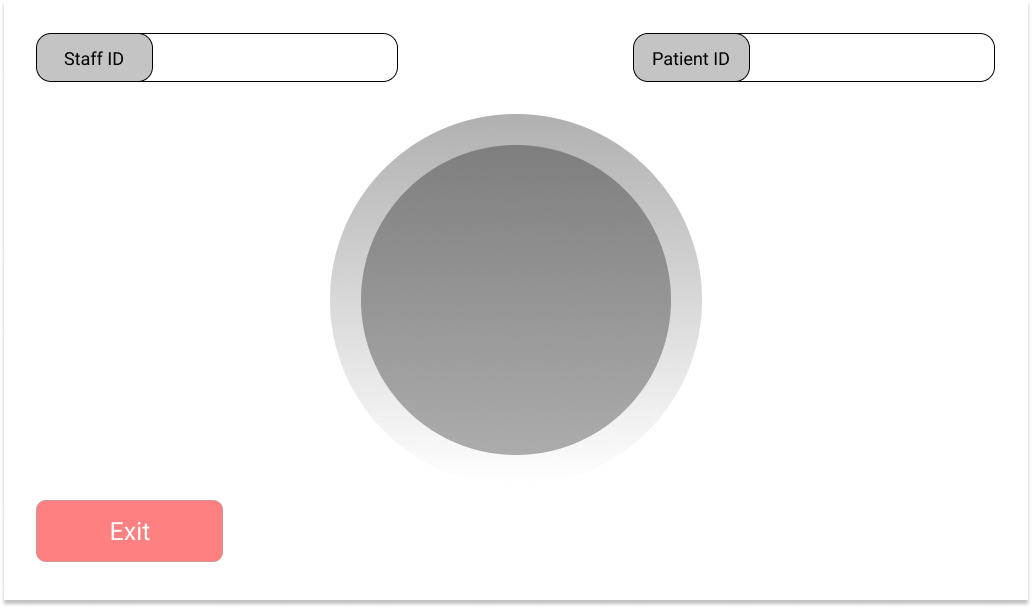
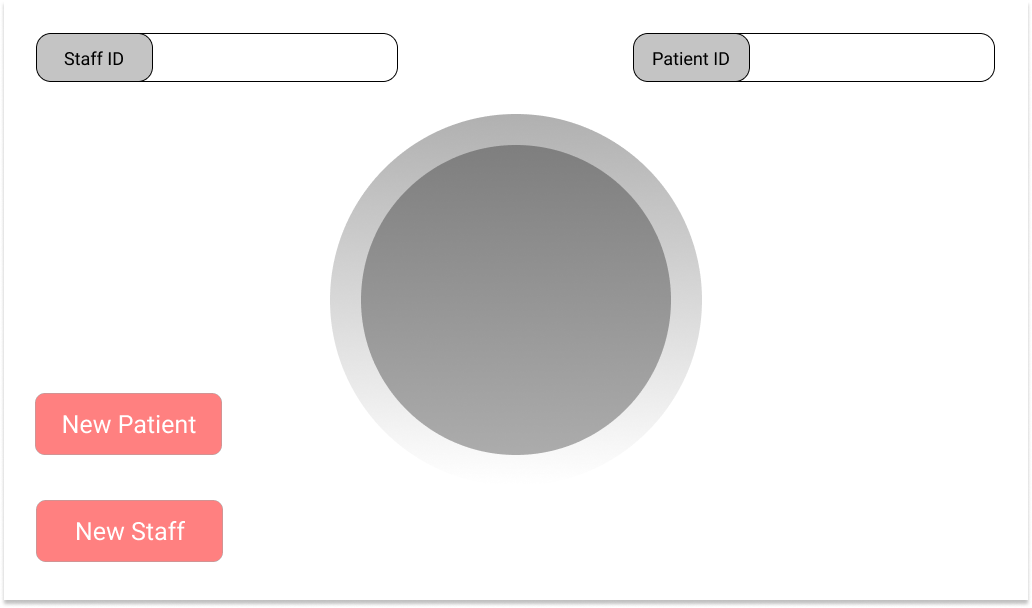
individual login window update

Changed region(s): [[0.031, 0.625, 0.2171, 0.75], [0.062, 0.8438, 0.186, 0.9062]]

diff --git a/demo ui/demo_gui_only.py b/demo ui/demo_gui_only.py
@@ -5,24 +5,31 @@ from autofocus import autofocus
 from login import *
 
 
-class MainWindow(QMainWindow):
-    
-    def openwindow(self):
-        self.window = QtWidgets.QMainWindow()
+class MainWindow(QMainWindow):    
+    def login_page(self):
         self.ui = Ui_Form()
-        self.ui.setupUi(self.window)
-        self.window.show()
+        self.ui.resize(1024, 600)        
+        self.ui.show()
         
-    def btn_exit_handler(self):                
+    def new_main_page(self):
+        self.ui = MainWindow(self.staff_id_value)
+        self.ui.resize(1024, 600)        
+        self.ui.show()
         
-        self.close()
-        self.openwindow()
+    def btn_exit_handler(self):                        
+        self.close()       
+        self.login_page()
+        
+    def new_patient_instance(self):
+        self.close() 
+        self.new_main_page()
         
         
         
-    def __init__(self):
+    def __init__(self, staff_id_value):
         super().__init__()
-        self.count = 0
+        self.staff_id_value = staff_id_value
+        self.count = 1
         self.green = QPixmap('green tick.png').scaled(32, 32, QtCore.Qt.KeepAspectRatio, QtCore.Qt.FastTransformation)
         self.grey = QPixmap('grey tick.png').scaled(32, 32, QtCore.Qt.KeepAspectRatio, QtCore.Qt.FastTransformation)
         self.white = QPixmap('white tick.png').scaled(32, 32, QtCore.Qt.KeepAspectRatio, QtCore.Qt.FastTransformation)
@@ -81,6 +88,7 @@ class MainWindow(QMainWindow):
         self.staff_id = QtWidgets.QLineEdit(self.centralwidget)
         self.staff_id.setGeometry(QtCore.QRect(160, 30, 200, 45))
         self.staff_id.setStyleSheet("border: 0px solid blue")
+        self.staff_id.setText(self.staff_id_value)
 
         
         self.patient_id = QtWidgets.QLineEdit(self.centralwidget)
@@ -97,30 +105,31 @@ class MainWindow(QMainWindow):
         self.cancel_btn.setStyleSheet("background-color: rgba(0, 255, 255, 0);") 
 #         self.cancel_btn.clicked.connect(QApplication.instance().quit)
         self.cancel_btn.clicked.connect(self.btn_exit_handler)    
-        
-        
+    
+        self.new_patient_btn = QtWidgets.QPushButton(self.centralwidget)
+        self.new_patient_btn.setGeometry(QtCore.QRect(30, 390, 190, 60))
+        self.new_patient_btn.setStyleSheet("background-color: rgba(0, 255, 255, 0);") 
+        self.new_patient_btn.clicked.connect(self.new_patient_instance)    
+                
         self.start_btn = QtWidgets.QPushButton(self.centralwidget)
         self.start_btn.setGeometry(QtCore.QRect(740, 500, 220, 65))
         self.start_btn.setStyleSheet("background-color: rgba(0, 255, 255, 0);")   
         self.start_btn.clicked.connect(self.step3)
-               
-            
+                           
         self.scan_label = QtWidgets.QLabel(self.centralwidget)
-        self.scan_label.setGeometry(QtCore.QRect(440, 330, 200,100))        
-        self.sacn_image = QPixmap('RIFD Sign.png').scaled(150, 90, QtCore.Qt.KeepAspectRatio, QtCore.Qt.FastTransformation)
-        self.scan_label.setPixmap(self.sacn_image)     
+        self.scan_label.setGeometry(QtCore.QRect(440, 330, 200,100))                  
+        self.barcode_image = QPixmap('barcode.png').scaled(150, 90, QtCore.Qt.KeepAspectRatio, QtCore.Qt.FastTransformation)
+        self.scan_label.setPixmap(self.barcode_image)      
         
         self.main_btn = QtWidgets.QPushButton(self.centralwidget)
         self.main_btn.setGeometry(QtCore.QRect(378, 170, 260, 260))
-        self.main_btn.setText("Tap Staff ID \n to Login")
+        self.main_btn.setText("Scan Patient \n Barcode")
         self.main_btn.setStyleSheet("QPushButton{font-size: 28px;font-family: Arial;color: rgb(255, 255, 255);background-color: rgba(0, 255, 255, 0);}")        
         self.main_btn.clicked.connect(self.button_function)
-            
+    
     
     def button_function(self):
-        if self.count == 0:            
-            self.barcode()
-        elif self.count == 1:            
+        if self.count == 1:            
             self.step1()
         elif self.count == 2:
             self.step2()
@@ -140,11 +149,6 @@ class MainWindow(QMainWindow):
             
         
         
-    def barcode(self):
-        self.main_btn.setText("Scan Patient \n Barcode")
-        self.staff_id.setText("Technician Kerwin") 
-        self.barcode_image = QPixmap('barcode.png').scaled(150, 90, QtCore.Qt.KeepAspectRatio, QtCore.Qt.FastTransformation)
-        self.scan_label.setPixmap(self.barcode_image) 
         
         
     def step1(self):
@@ -233,20 +237,23 @@ step7: data analytics progress {loading; check list; 4 green, 1 grey, 0 white ci
 step8: showing result {green bar}
 '''
     
-
 stylesheet = """
     MainWindow {
         background-image: url("bg.png"); 
         background-repeat: no-repeat; 
         background-position: center;
     }
+    Ui_Form {
+        background-image: url("login_bg.png"); 
+        background-repeat: no-repeat; 
+        background-position: center;
+    }
 """
-
 if __name__ == "__main__":
     import sys
     app = QApplication(sys.argv)
     app.setStyleSheet(stylesheet)     
-    window = MainWindow()
+    window = MainWindow('123')
     window.resize(1024, 600)
     window.show()
     sys.exit(app.exec_())

diff --git a/demo ui/demo.py b/demo ui/demo.py
@@ -13,7 +13,6 @@ from PyQt5.QtCore import *
 from getpass import getpass
 from login import *
 
-
 class WorkerSignals(QObject):
     finished = pyqtSignal()
     error = pyqtSignal(tuple)
@@ -37,20 +36,28 @@ class Worker(QRunnable):
         finally:
             self.worker_signals.finished.emit()
 
-class MainWindow(QMainWindow):
-        
-    def openwindow(self):
-        self.window = QtWidgets.QMainWindow()
+            
+class MainWindow(QMainWindow):        
+    def login_page(self):
         self.ui = Ui_Form()
-        self.ui.setupUi(self.window)
-        self.window.show()
+        self.ui.resize(1024, 600)        
+        self.ui.show()
+        
+    def new_main_page(self):
+        self.ui = MainWindow(self.staff_id_value)
+        self.ui.resize(1024, 600)        
+        self.ui.show()
         
     def btn_exit_handler(self):                        
-        self.close()
-        self.openwindow()
+        self.close()       
+        self.login_page()
+        
+    def new_patient_instance(self):
+        self.close() 
+        self.new_main_page()
         
         
-    def __init__(self):
+    def __init__(self, staff_id_value):
         super().__init__()
         self.count = -1
         self.green = QPixmap('green tick.png').scaled(32, 32, QtCore.Qt.KeepAspectRatio, QtCore.Qt.FastTransformation)
@@ -110,33 +117,43 @@ class MainWindow(QMainWindow):
         ## IDs 
         self.staff_id = QtWidgets.QLineEdit(self.centralwidget)
         self.staff_id.setGeometry(QtCore.QRect(160, 30, 200, 45))
-        self.staff_id.setStyleSheet("border: 0px solid blue")        
+        self.staff_id.setStyleSheet("border: 0px solid blue")    
+        self.staff_id.setText(staff_id_value)
+        
         self.patient_id = QtWidgets.QLineEdit(self.centralwidget)
         self.patient_id.setGeometry(QtCore.QRect(760, 30, 200, 45))
         self.patient_id.setStyleSheet("border: 0px solid blue")        
         self.loading_label = QtWidgets.QLabel(self.centralwidget)        
         self.loading_label.setGeometry(QtCore.QRect(326, 80, 430, 430))                   
+        
         # Buttons
         self.cancel_btn = QtWidgets.QPushButton(self.centralwidget)
         self.cancel_btn.setGeometry(QtCore.QRect(30, 500, 190, 60))
         self.cancel_btn.setStyleSheet("background-color: rgba(0, 255, 255, 0);border:0px") 
-#         self.cancel_btn.clicked.connect(QApplication.instance().quit)   
         self.cancel_btn.clicked.connect(self.btn_exit_handler)    
-
+        
+        self.new_patient_btn = QtWidgets.QPushButton(self.centralwidget)
+        self.new_patient_btn.setGeometry(QtCore.QRect(30, 390, 190, 60))
+        self.new_patient_btn.setStyleSheet("background-color: rgba(0, 255, 255, 0);") 
+        self.new_patient_btn.clicked.connect(self.new_patient_instance)    
         
         self.start_btn = QtWidgets.QPushButton(self.centralwidget)
         self.start_btn.setGeometry(QtCore.QRect(740, 500, 220, 65))
         self.start_btn.setStyleSheet("background-color: rgba(0, 255, 255, 0);border:0px;")  
         self.start_btn.clicked.connect(self.step3)
+        
         self.scan_label = QtWidgets.QLabel(self.centralwidget)
-        self.scan_label.setGeometry(QtCore.QRect(440, 330, 200,100))        
-        self.sacn_image = QPixmap('RIFD Sign.png').scaled(150, 90, QtCore.Qt.KeepAspectRatio, QtCore.Qt.FastTransformation)
-        self.scan_label.setPixmap(self.sacn_image)             
+        self.scan_label.setGeometry(QtCore.QRect(440, 330, 200,100))                  
+        self.barcode_image = QPixmap('barcode.png').scaled(150, 90, QtCore.Qt.KeepAspectRatio, QtCore.Qt.FastTransformation)
+        self.scan_label.setPixmap(self.barcode_image)      
+        
+        
         self.main_btn = QtWidgets.QPushButton(self.centralwidget)
         self.main_btn.setGeometry(QtCore.QRect(378, 170, 260, 260))
-        self.main_btn.setText("Press and tap \n Staff ID to login")
-        self.main_btn.setStyleSheet("QPushButton{font-size: 28px;font-family: Arial;color: rgb(255, 255, 255);background-color: rgba(0, 255, 255, 0); border: 0px}")        
+        self.main_btn.setText("Scan Patient \n Barcode")
+        self.main_btn.setStyleSheet("QPushButton{font-size: 28px;font-family: Arial;color: rgb(255, 255, 255);background-color: rgba(0, 255, 255, 0);}")        
         self.main_btn.clicked.connect(self.button_function)
+        
         self.staff_id.setEnabled(False)
         self.patient_id.setEnabled(False)
         self.user_id = ""
@@ -318,13 +335,18 @@ stylesheet = """
         background-repeat: no-repeat; 
         background-position: center;
     }
+    Ui_Form {
+        background-image: url("login_bg.png"); 
+        background-repeat: no-repeat; 
+        background-position: center;
+    }
 """
 
 if __name__ == "__main__":
     import sys
     app = QApplication(sys.argv)
     app.setStyleSheet(stylesheet)     
-    window = MainWindow()
+    window = MainWindow('1234')
     window.showFullScreen()
     window.resize(1024, 600)
     window.show()

diff --git a/demo ui/login.py b/demo ui/login.py
@@ -1,40 +1,44 @@
 from PyQt5 import QtCore, QtGui, QtWidgets
-# from main_gui import  *
 from demo import  *
 from PyQt5 import QtWidgets
 import sqlite3
 
 
-class Ui_Form(object):
+class Ui_Form(QMainWindow):
 
-    def openwindow(self):
-        self.window = QtWidgets.QMainWindow()
-        print('open main window')
-        self.ui = MainWindow()
+    def openwindow(self, staff_id_value):
+        print('start new patient instance')
+        self.ui = MainWindow(staff_id_value)
         self.ui.resize(1024, 600)
         self.ui.show()
-        Form.hide()
+        self.close()
+#         self.hide()
 
-    def setupUi(self, Form):
-        Form.resize(1024, 600)
-        self.textBrowser = QtWidgets.QLabel("LOGO",Form)
-        self.textBrowser.setGeometry(QtCore.QRect(150, 10, 361, 61))
-        self.gridLayoutWidget = QtWidgets.QWidget(Form)
-        self.gridLayoutWidget.setGeometry(QtCore.QRect(100, 90, 431, 261))
-        self.gridLayoutWidget.setObjectName("gridLayoutWidget")
-        self.gridLayout = QtWidgets.QGridLayout(self.gridLayoutWidget)
-        self.gridLayout.setContentsMargins(0, 0, 0, 0)
-       
-        self.l_username = QtWidgets.QLabel('username',self.gridLayoutWidget)
-        self.gridLayout.addWidget(self.l_username, 0, 0, 1, 1)
-        self.txt_username = QtWidgets.QLineEdit(self.gridLayoutWidget)
-        self.gridLayout.addWidget(self.txt_username, 0, 1, 1, 1)
+    def __init__(self):
+        super().__init__()
+        self.staff_id_value = ''
+        self.gridLayoutWidget = QtWidgets.QWidget()
+        self.setCentralWidget(self.gridLayoutWidget)   
+    
+        # to be replace by the RFID code
+        self.staff_id = QtWidgets.QLineEdit(self.gridLayoutWidget)
+        self.staff_id.setGeometry(QtCore.QRect(160, 30, 200, 45))
+        self.staff_id.setStyleSheet("background-color: rgba(0, 255, 255, 0);border: 0px solid blue") 
         
-        self.btn_next = QtWidgets.QPushButton('Next',self.gridLayoutWidget)
-        self.gridLayout.addWidget(self.btn_next, 2, 1, 1, 1)
+        self.btn_next = QtWidgets.QPushButton(self.gridLayoutWidget)    
+        self.btn_next.setGeometry(QtCore.QRect(378, 170, 260, 260))
+        self.btn_next.setStyleSheet("QPushButton{font-size: 28px;font-family: Arial;color: rgb(255, 255, 255);background-color: rgba(0, 255, 255, 0);}")     
+        self.btn_next.setText("CLICK TO START")
         
-        QtCore.QMetaObject.connectSlotsByName(Form)
-        self.btn_next.clicked.connect(self.btn_login_handler)
+        QtCore.QMetaObject.connectSlotsByName(self.gridLayoutWidget)
+        self.btn_next.clicked.connect(self.button)
+        
+    def button(self):
+        self.btn_next.setText("Tap Staff ID \n to Login")
+        ####
+        # activate the rfid reading
+        # once read, call function btn_login_handler()
+
 
     def pop_window(self,text):
         msg = QtWidgets.QMessageBox()
@@ -44,7 +48,7 @@ class Ui_Form(object):
         msg.exec_()
        
     def btn_login_handler(self):
-        username = self.txt_username.text()
+        username = self.staff_id.text()
         conn = sqlite3.connect('user.db')
         cursor = conn.cursor()
         
@@ -58,11 +62,11 @@ class Ui_Form(object):
                     break
         if valid:
             print('Welcome')
-            self.openwindow()
+#             self.openwindow(username)
+            self.openwindow('passed from login')
         else:
             print('No user Found')
             self.pop_window('No user Found')
-
         
 stylesheet = """
     MainWindow {
@@ -70,14 +74,17 @@ stylesheet = """
         background-repeat: no-repeat; 
         background-position: center;
     }
+    Ui_Form {
+        background-image: url("login_bg.png"); 
+        background-repeat: no-repeat; 
+        background-position: center;
+    }
 """
 if __name__ == "__main__":
     import sys
     app = QtWidgets.QApplication(sys.argv)
-    app.setStyleSheet(stylesheet)   
-    
-    Form = QtWidgets.QWidget()
+    app.setStyleSheet(stylesheet)       
     ui = Ui_Form()
-    ui.setupUi(Form)
-    Form.show()
+    ui.resize(1024, 600)
+    ui.show()
     sys.exit(app.exec_())
